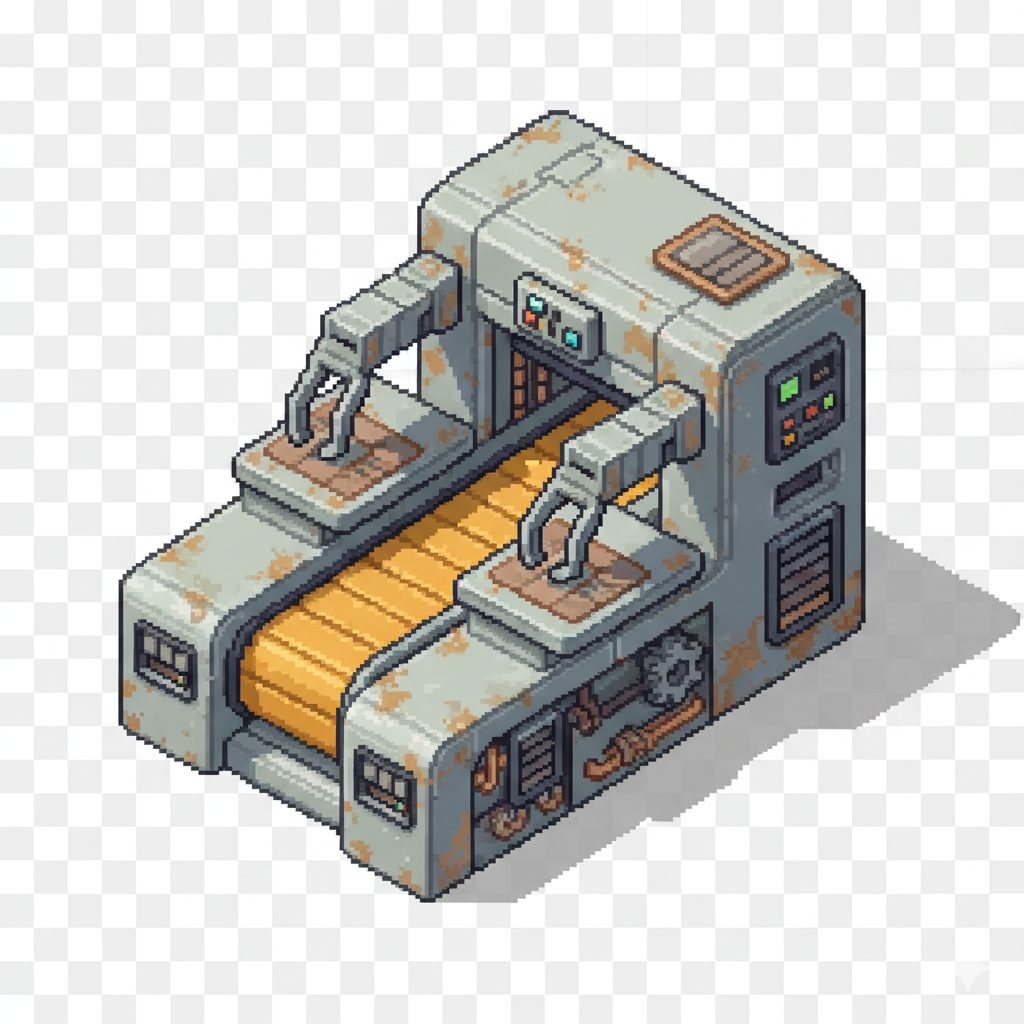
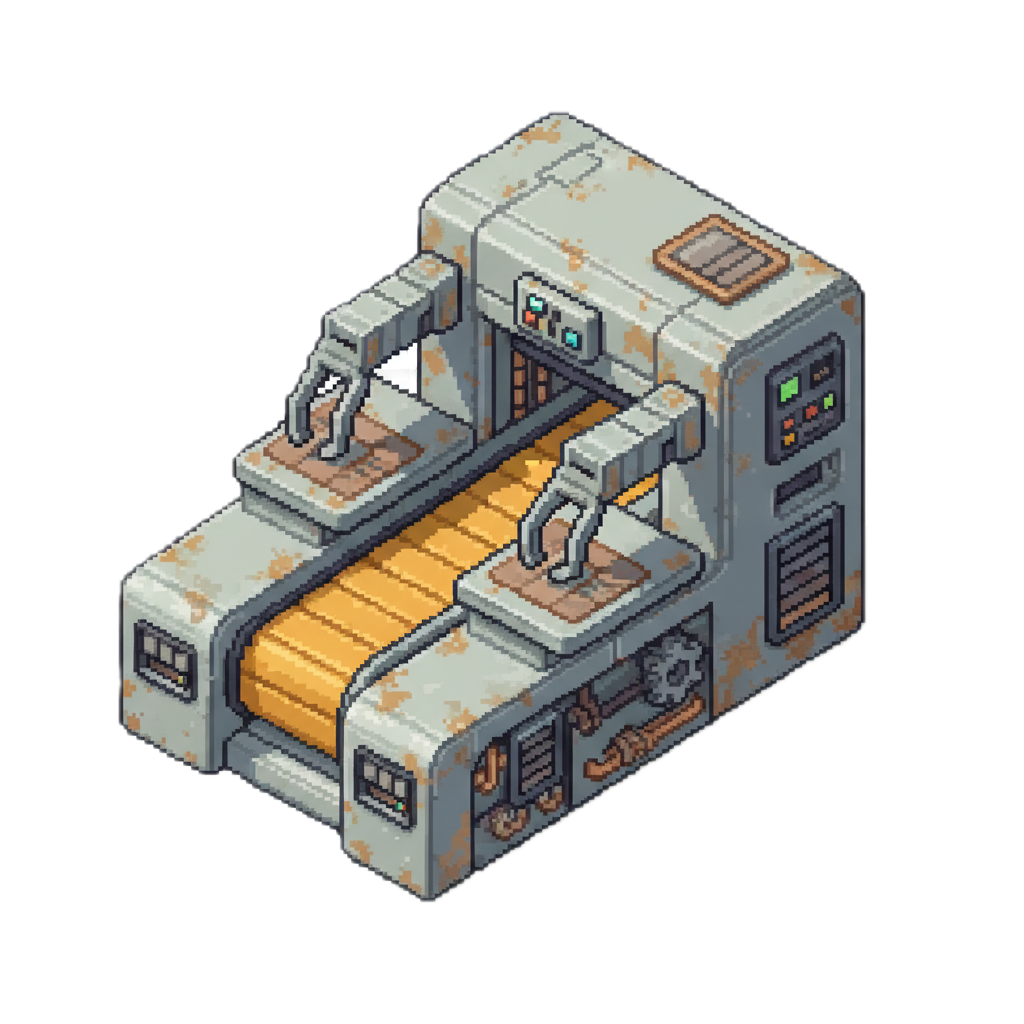
Update asset images and enhance texture handling in TextureAtlas
- Updated the existing assembling_machine_1.png asset to improve visual quality.
- Added a new dump_truck.png asset to the project for enhanced gameplay visuals.
- Modified TextureAtlas to include multi-tile buildings in the actual size handling logic, preventing distortion during rendering.

diff --git a/FactoryForge/Engine/Rendering/TextureAtlas.swift b/FactoryForge/Engine/Rendering/TextureAtlas.swift
@@ -302,8 +302,16 @@ final class TextureAtlas {
                 let uiButtonNames = ["new_game", "save_game", "load_game", "delete_game"]
                 // Bullet images use their actual size (not forced to 32x32)
                 let bulletNames = ["bullet", "bullet_up", "bullet_down", "bullet_left", "bullet_right"]
+                // Multi-tile buildings use their actual size to prevent distortion
+                let multiTileBuildings = [
+                    "assembling_machine_1", "assembling_machine_2", "assembling_machine_3",
+                    "electric_mining_drill", "electric_furnace", "burner_miner_drill",
+                    "burner_mining_drill", "stone_furnace", "steel_furnace",
+                    "lab", "solar_panel", "boiler", "steam_engine",
+                    "gun_turret", "laser_turret", "radar"
+                ]
                 let buttonSpriteSize = uiButtonNames.contains(textureId) ? 256 : spriteSize
-                let useActualSize = bulletNames.contains(textureId)
+                let useActualSize = bulletNames.contains(textureId) || multiTileBuildings.contains(textureId)
                 
                 if packSpriteIntoAtlas(image: image, name: textureId, into: &atlasData, atlasX: &atlasX, atlasY: &atlasY, spriteSize: buttonSpriteSize, useActualSize: useActualSize) {
                     print("✓ Loaded: \(filename).png -> textureId: \(textureId)")
